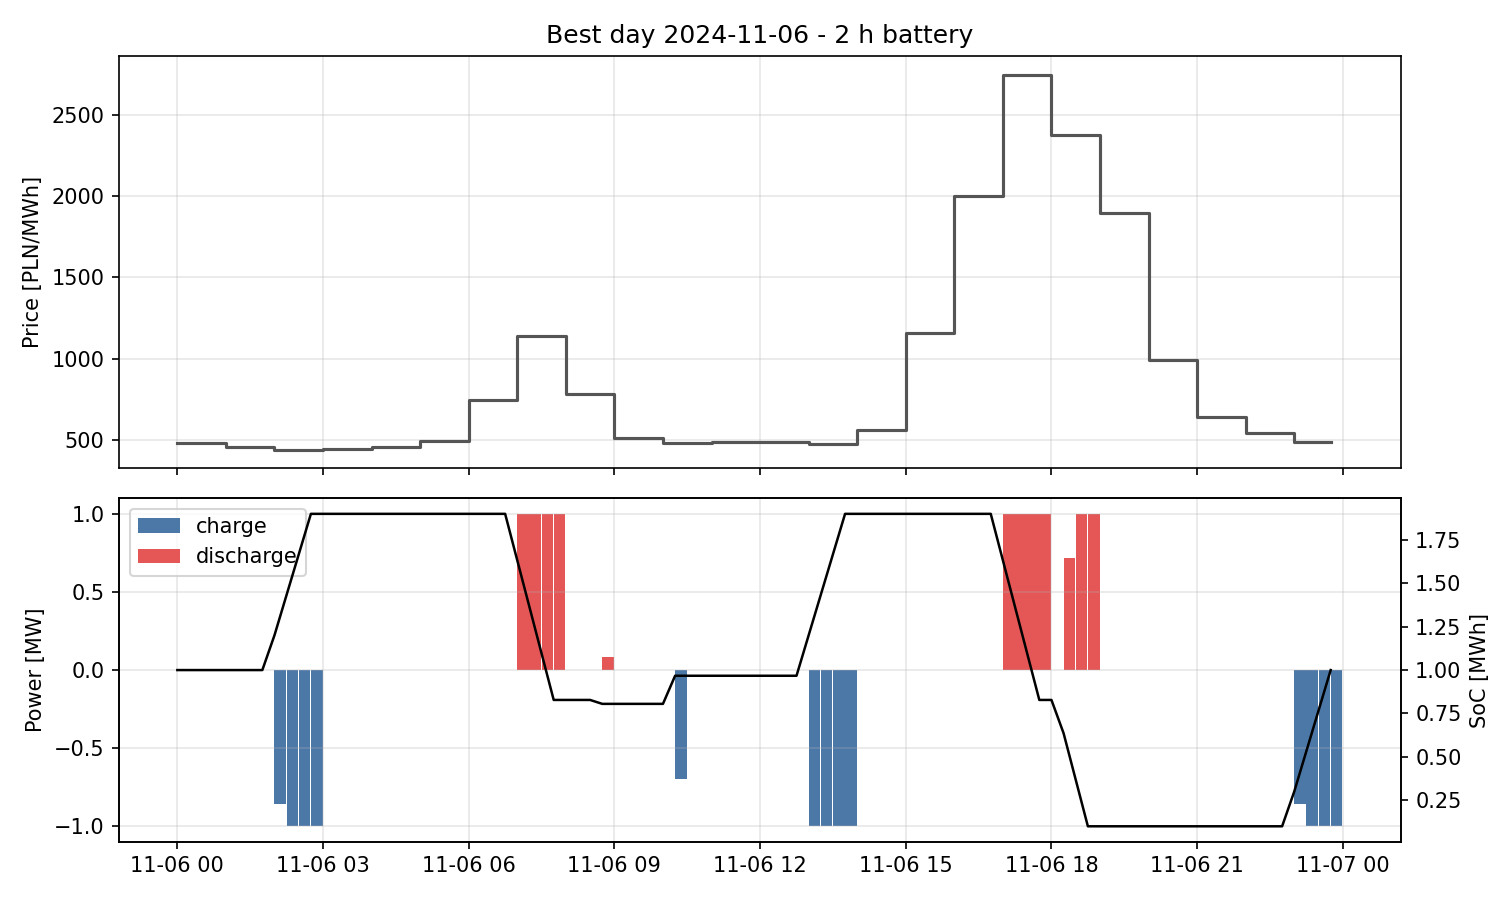
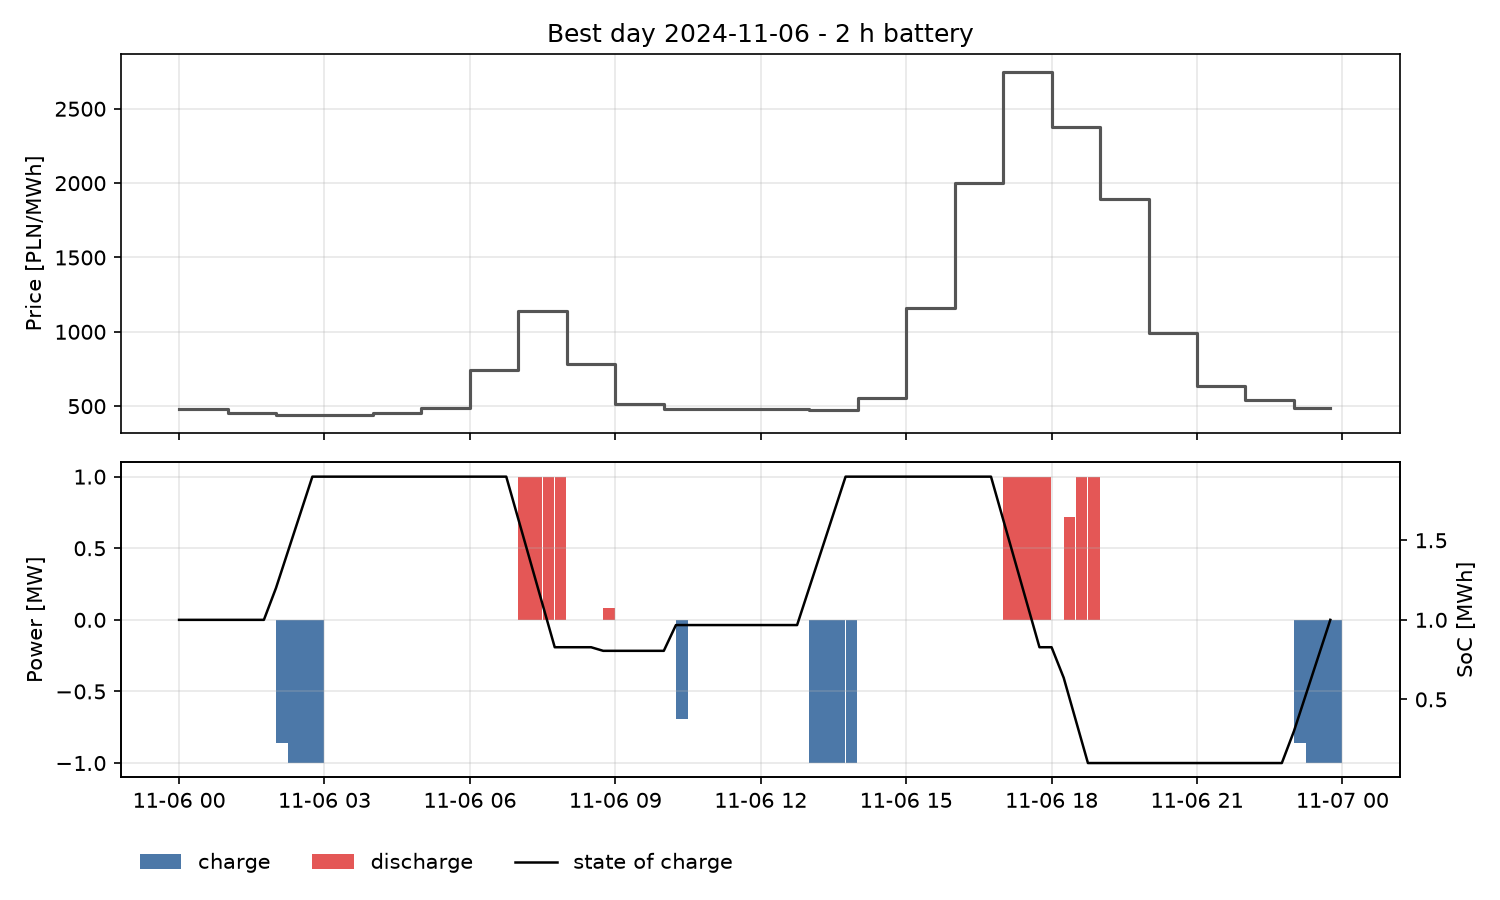
Charts: example-day legend under the panel, heatmap colorbar label
example_day: one legend for power and state of charge under the lower panel
(the SoC line crossed the old legend, which also lacked the SoC entry);
price_heatmap: the colorbar is labelled PLN/MWh. Both redrawn with the same
functions and inputs (best day 2024-11-06, 3,989.94 PLN as in the results).
Layout only; results unchanged.

diff --git a/src/bess_arbitrage/plots.py b/src/bess_arbitrage/plots.py
@@ -35,7 +35,7 @@ def price_heatmap(prices: pd.DataFrame, path: Path):
     ax.set_xticks(range(0, len(table.index), 3), [str(m) for m in table.index[::3]], rotation=45, ha="right")
     ax.set_ylabel("Hour of day (local time)")
     ax.set_title("Average price by hour and month [PLN/MWh]")
-    fig.colorbar(im, ax=ax)
+    fig.colorbar(im, ax=ax).set_label("PLN/MWh")
     _save(fig, path)
 
 
@@ -75,6 +75,9 @@ def example_day(schedule: pd.DataFrame, title: str, path: Path):
     ax3 = ax2.twinx()
     ax3.plot(s.index, s["soc_mwh"], color="black", lw=1.2, label="state of charge")
     ax3.set_ylabel("SoC [MWh]")
-    ax2.legend(loc="upper left")
+    # one legend for both axes under the panel; inside it the SoC line crossed it
+    handles = ax2.get_legend_handles_labels()[0] + ax3.get_legend_handles_labels()[0]
+    ax2.legend(handles, [h.get_label() for h in handles], loc="upper left", bbox_to_anchor=(0, -0.18), ncol=3,
+               frameon=False)
     ax2.grid(alpha=0.3)
     _save(fig, path)
